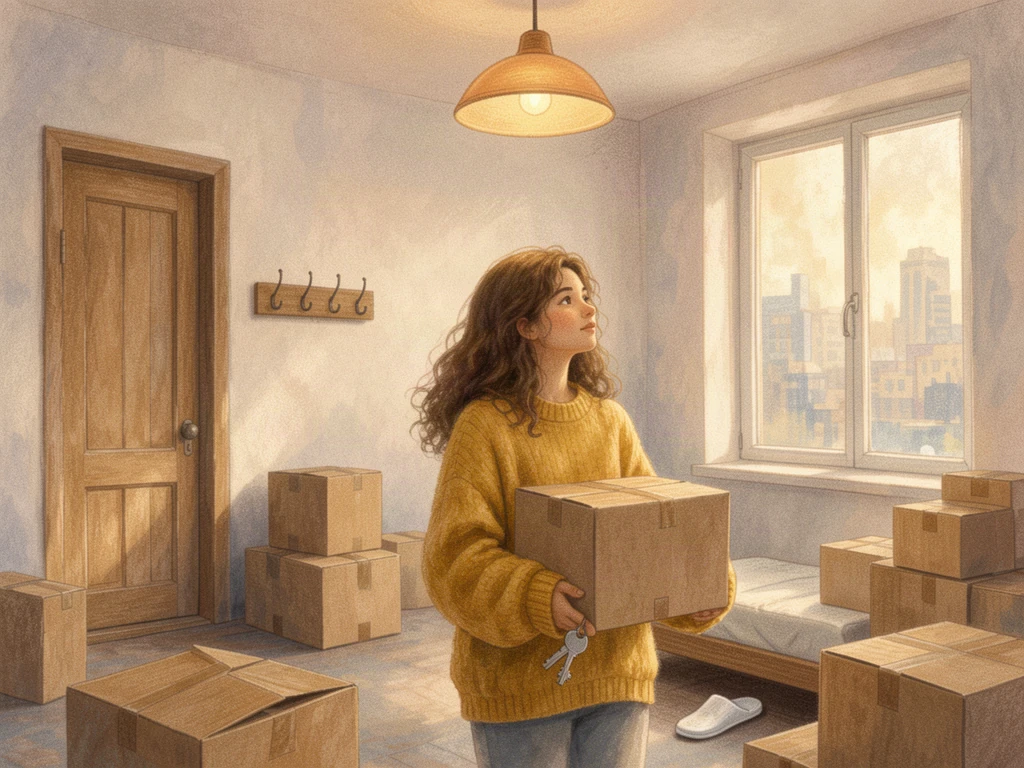
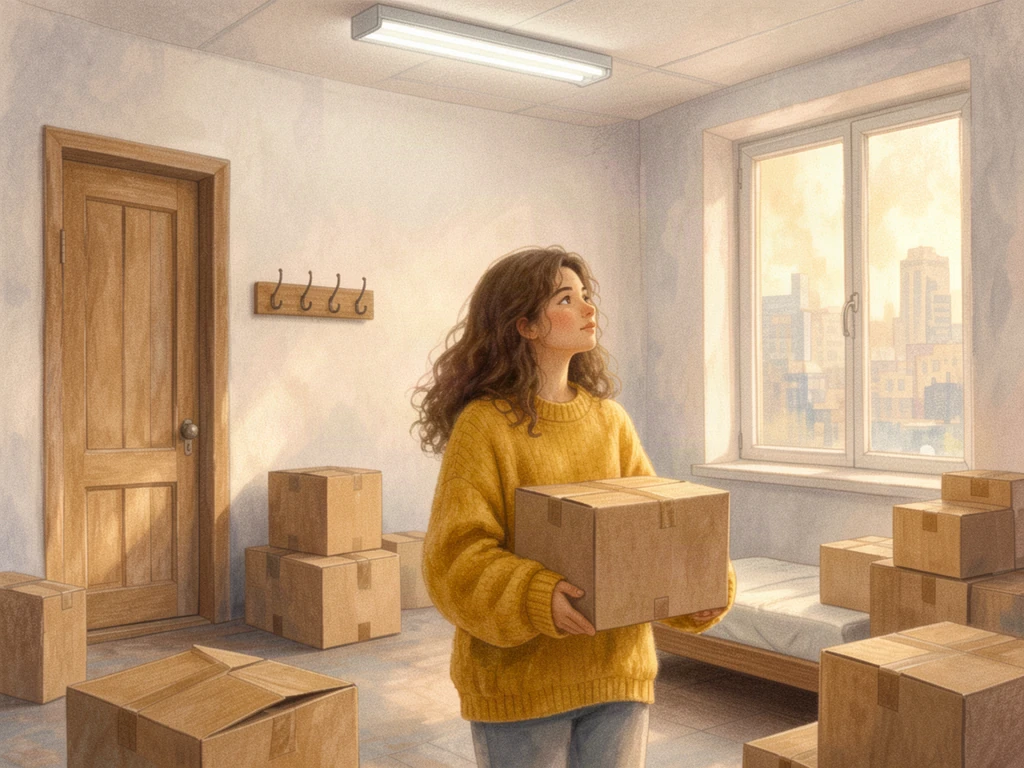
beta3: stage2 monitor only, stage6 hospital ceiling light, stage10 zebra crossing with car, finale recap panel

diff --git a/beta/index.html b/beta/index.html
@@ -54,9 +54,18 @@ h1 small{display:block;font-size:.42em;color:#a99bbd;letter-spacing:.22em;text-t
   font:inherit;font-size:16px;font-weight:600;cursor:pointer}
 .ghost{margin-top:10px;background:none;border:1px solid #453b58;color:#c3b7d4;border-radius:12px;
   padding:12px 24px;font:inherit;font-size:14px;cursor:pointer}
-#endInner{max-width:560px;background:#f6efdfee;border-radius:16px;padding:26px 18px;color:#171320}
-#endInner p{font-size:15px;line-height:1.6;margin-top:14px}
-.credits{font-size:11px;margin-top:24px;line-height:1.7}
+#end{align-items:flex-start;justify-content:flex-end;padding:22px}
+#endInner{max-width:min(470px,94vw);background:rgba(10,9,16,.85);border-radius:18px;padding:22px 24px;
+  text-align:left;color:#f4eee4;backdrop-filter:blur(8px);box-shadow:0 20px 60px #000b}
+#endInner h1{color:#f8f3e9;font-size:clamp(20px,3vw,28px);margin:0;line-height:1.2}
+#endInner h1 small{display:block;margin-top:7px;font-size:11.5px;font-weight:600;letter-spacing:.07em;
+  text-transform:uppercase;color:#c6b9a2}
+#endInner p{font-size:14.5px;line-height:1.62;margin-top:12px;color:#ece5d9}
+#endInner p.last{font-style:italic;font-weight:600;color:#f8f3e9;margin-top:10px}
+#endInner p.sum{font-size:13.8px;color:#d9cfbe;border-left:2px solid #8d7c60;padding-left:12px;margin-top:16px}
+#endInner .creds{font-size:11px;color:#a89c89;margin-top:16px;line-height:1.6}
+@media(max-width:620px){#end{align-items:center;justify-content:flex-end;padding:10px}
+ #endInner{max-width:97vw;padding:15px 16px}#endInner p{font-size:13px}#endInner p.sum{font-size:12.4px}}
 
 .rid{max-width:640px;background:rgba(9,8,13,.68);padding:24px 28px 20px;border-radius:22px;
   box-shadow:0 18px 60px #000a;backdrop-filter:blur(6px)}
@@ -120,10 +129,10 @@ const D={stages:[
   out:{sk:'Mama spievala, kým som nezaspala. Môj macko ma strážil z police.',en:'Mom sang until I fell asleep. My teddy watched over me from the shelf.'},
   h:{x:89.5,y:22,r:8,n:{sk:'O jedno svetlo na oblohe navyše',en:'One light too many in the sky'},w:{sk:'Mesiac aj slnko naraz. Sen si nedrží pravidlá.',en:'Moon and sun at once. A dream does not keep the rules.'}}},
  {img:'assets/s02.webp',t:{sk:'Škôlka',en:'Kindergarten'},
-  o:{sk:'…dýcha sama. To je dobrý znak.',en:'…she is breathing on her own. That is a good sign.'},
-  in:{sk:'Svet bol prázdny papier a ja som chcela všetky farby.',en:'The world was a blank sheet and I wanted every colour.'},
-  out:{sk:'Do každého obrázka som kreslila slnko. Aj do tých nočných.',en:'I drew a sun into every picture. Even the night ones.'},
-  h:[{x:80,y:44,r:5,n:{sk:'Stetoskop v polici',en:'A stethoscope on the shelf'},w:{sk:'Medzi hračkami v polici leží stetoskop. V škôlke ho nikto nepotrebuje.',en:'A stethoscope lies among the toys on the shelf. Nobody in a kindergarten needs one.'}},{x:89,y:74.5,r:5,n:{sk:'Monitor na zemi',en:'A monitor on the floor'},w:{sk:'Na koberci pri deťoch leží monitor z izby 214.',en:'A monitor from room 214 lies on the rug beside the children.'}}]},
+  o:{sk:'„…dýcha sama. To je dobrý znak.“',en:'“…she is breathing on her own. That is a good sign.”'},
+  in:{sk:'Kocky, kriedy, detský smiech. A niečo tu nesedí.',en:'Blocks, chalk, children laughing. And something is out of place.'},
+  out:{sk:'Cez koberec prešla vlna, ktorá tam nepatrila.',en:'A wave crossed the rug that did not belong there.'},
+  h:{x:87,y:74.5,r:5,n:{sk:'Monitor na koberci',en:'A monitor on the rug'},w:{sk:'Na koberci pri deťoch leží monitor z izby 214.',en:'A monitor from room 214 lies on the rug beside the children.'}}},
  {img:'assets/s03.webp',t:{sk:'Prvý deň v škole',en:'First Day of School'},
   o:{sk:'Sestrička: „Hovorte na ňu. Počuje vás.“',en:'Nurse: “Talk to her. She can hear you.”'},
   in:{sk:'Mama ma pri dverách pustila za ruku. Bola som taká malá.',en:'Mum let go of my hand at the door. I was so small.'},
@@ -140,10 +149,10 @@ const D={stages:[
   out:{sk:'Napísal, čo sa nikdy neodvážil povedať nahlas. Ten list som si nechala dvadsať rokov.',en:'He wrote what he never dared to say aloud. I kept that letter for twenty years.'},
   h:{x:15,y:82.5,r:5,n:{sk:'Nemocničný náramok',en:'A hospital wristband'},w:{sk:'Leží pri školskej lavici. Niekto ho stratil na ceste z izby 214.',en:'It lies by a school bench. Someone lost it on the way out of room 214.'}}},
  {img:'assets/s06.webp',t:{sk:'Odchod z domu',en:'Leaving Home'},
-  o:{sk:'Ema zaspala na dvoch stoličkách pri dverách.',en:'Ema fell asleep on two chairs by the door.'},
-  in:{sk:'Štyri prázdne steny. A dvere, ktoré odomykám len ja.',en:'Four empty walls. And a door only I unlock.'},
-  out:{sk:'Prvý kľúč, ktorý bol len môj. Bála som sa a tešila zároveň.',en:'The first key that was only mine. I was scared and glad at once.'},
-  h:{x:69.2,y:89.9,r:5,n:{sk:'Nemocničný prezúvok',en:'A hospital slipper'},w:{sk:'Pod posteľou v novom byte leží prezúvok z nemocnice.',en:'A hospital slipper lies under the bed of a brand-new flat.'}}},
+  o:{sk:'„Ema zaspala na dvoch stoličkách pri dverách.“',en:'“Ema fell asleep on two chairs by the door.”'},
+  in:{sk:'Prázdny byt, krabice, nový začiatok.',en:'An empty flat, boxes, a new beginning.'},
+  out:{sk:'Svetlo zhora bolo príliš biele na obyčajný byt.',en:'The light from above was too white for an ordinary flat.'},
+  h:{x:46.5,y:6.5,r:9,n:{sk:'Nemocničné svetlo na strope',en:'A hospital light on the ceiling'},w:{sk:'Dlhé biele svetlo z nemocničnej chodby svieti v novom byte.',en:'The long white light of a hospital corridor is shining in the new flat.'}}},
  {img:'assets/s07.webp',t:{sk:'Stretnutie s Adamom',en:'Meeting Adam'},
   o:{sk:'…päť dní. Nikto nič nehovorí.',en:'…five days. Nobody says anything.'},
   in:{sk:'Daždivý utorok. Kaviareň. Cudzinec s láskavými očami.',en:'A rainy Tuesday. A café. A stranger with kind eyes.'},
@@ -161,9 +170,9 @@ const D={stages:[
   h:{x:7.5,y:51,r:5.5,n:{sk:'Skúmavky pri kávovare',en:'Test tubes by the kettle'},w:{sk:'Pri rannej káve stoja skúmavky. Tie patria do laboratória, nie do kuchyne.',en:'Test tubes stand beside the morning coffee. They belong to a laboratory, not a kitchen.'}}},
  {img:'assets/s10.webp',t:{sk:'Dážď',en:'The Rain'},
   o:{sk:'„…Mami? Prosím, zobuď sa.“',en:'“…Mom? Please wake up.”'},
-  in:{sk:'Len trochu dažďa. Skoro doma.',en:'Only a little rain. Almost home.'},
+  in:{sk:'Prechod, dážď, mokrý asfalt. Skoro doma.',en:'A crossing, rain, wet asphalt. Almost home.'},
   out:{sk:'Svetlá. Zvuk, akoby sa trhalo celé nebo. A potom—',en:'Lights. A sound like the sky tearing. And then—'},
-  h:{x:64.5,y:47,r:9,n:{sk:'Svetlá na ceste',en:'Lights on the road'},w:{sk:'Dve svetlá v daždi. To je posledné, čo som videla.',en:'Two headlights in the rain. That is the last thing I saw.'}}},
+  h:{x:63,y:53,r:9,n:{sk:'Auto za chrbtom',en:'A car behind her'},w:{sk:'V daždi prechádzam cez prechod. Za mnou ide auto.',en:'I am crossing the street in the rain. A car is coming behind me.'}}},
 ]};
 
 const T={
@@ -175,6 +184,7 @@ const T={
   last:'I am awake. You are all here. Every stage of my life was leading me back to you.',
   ep:'Elena, 38. Wife of Adam. Mother of Ema and Tom. Her body sleeps in room 214. Her mind is still walking home.',
   credits:'The End',credits2:'Human: concept, story, Elena’s character, game direction. Made with AI assistance.',
+  sum:'What happened: on a rainy evening Elena was walking home across the pedestrian crossing. A car came out of the mist behind her - the driver never saw her in the rain. It hit her on the crossing. She lay in a coma in room 214 for eleven days. What she lived through: her mind walked back through her whole life - the cradle, kindergarten, first love, the wedding, the children, the road home. In every memory one thing did not belong, and exactly those things led her back. How it ended: she woke up. Adam, Ema and Tomi were sitting beside her bed.',
   ridQ:'One last question before you wake up: what took Elena off that street?',
   ridA:['The rain','A car','The hospital'],
   ridOk:'Yes. Two headlights, wet asphalt — and then room 214.',
@@ -188,6 +198,7 @@ const T={
   last:'Som hore. Ste tu všetci. Každá etapa môjho života ma viedla späť k vám.',
   ep:'Elena, 38 rokov. Manželka Adama. Mama Emy a Tomiho. Jej telo spí v izbe 214. Jej myseľ ešte kráča domov.',
   credits:'Koniec',credits2:'Človek: nápad, príbeh, postava Eleny, smerovanie hry. Vytvorené s pomocou AI.',
+  sum:'Čo sa stalo: Elena sa v daždivom večeri vracala domov cez prechod pre chodcov. Za jej chrbtom sa z hmly vynorilo auto — v daždi ju vodič nevidel. Zrazil ju na prechode. Jedenásť dní ležala v kóme v izbe 214. Čo prežila: jej myseľ prešla celým jej životom — kolíska, škôlka, prvá láska, svadba, deti, cesta domov. V každej spomienke bola jedna vec, ktorá tam nepatrila, a práve tie ju viedli späť. Ako to dopadlo: prebudila sa. Pri posteli sedeli Adam, Ema a Tomi.',
   ridQ:'Ešte jedna otázka, kým sa zobudíš: čo vzalo Elenu z tej cesty?',
   ridA:['Dážď','Auto','Nemocnica'],
   ridOk:'Áno. Dve svetlá, mokrý asfalt — a potom izba 214.',
@@ -346,10 +357,11 @@ function buildRiddle(){
 function finale(){
   setTimeout(()=>{
     $('#endInner').innerHTML=`
-      <h1 style="color:#171320">${t('finT')}<small style="color:#5b5268">${t('title')} · ${t('series')}</small></h1>
-      <p style="font-style:italic;color:#2a2438;font-weight:600">${t('last')}</p>
-      <p style="color:#3a3348">${t('ep')}</p>
-      <p class="credits" style="color:#5b5268">${t('credits')}<br>${t('credits2')}</p>
+      <h1>${t('finT')}<small>${t('title')} · ${t('series')}</small></h1>
+      <p class="last">${t('last')}</p>
+      <p>${t('ep')}</p>
+      <p class="sum">${t('sum')}</p>
+      <p class="creds">${t('credits')} · ${t('credits2')}</p>
       <button class="big" id="bAgain">${t('again')}</button>`;
     $('#end').style.backgroundImage="url('assets/s11.webp')";
     show('end');
